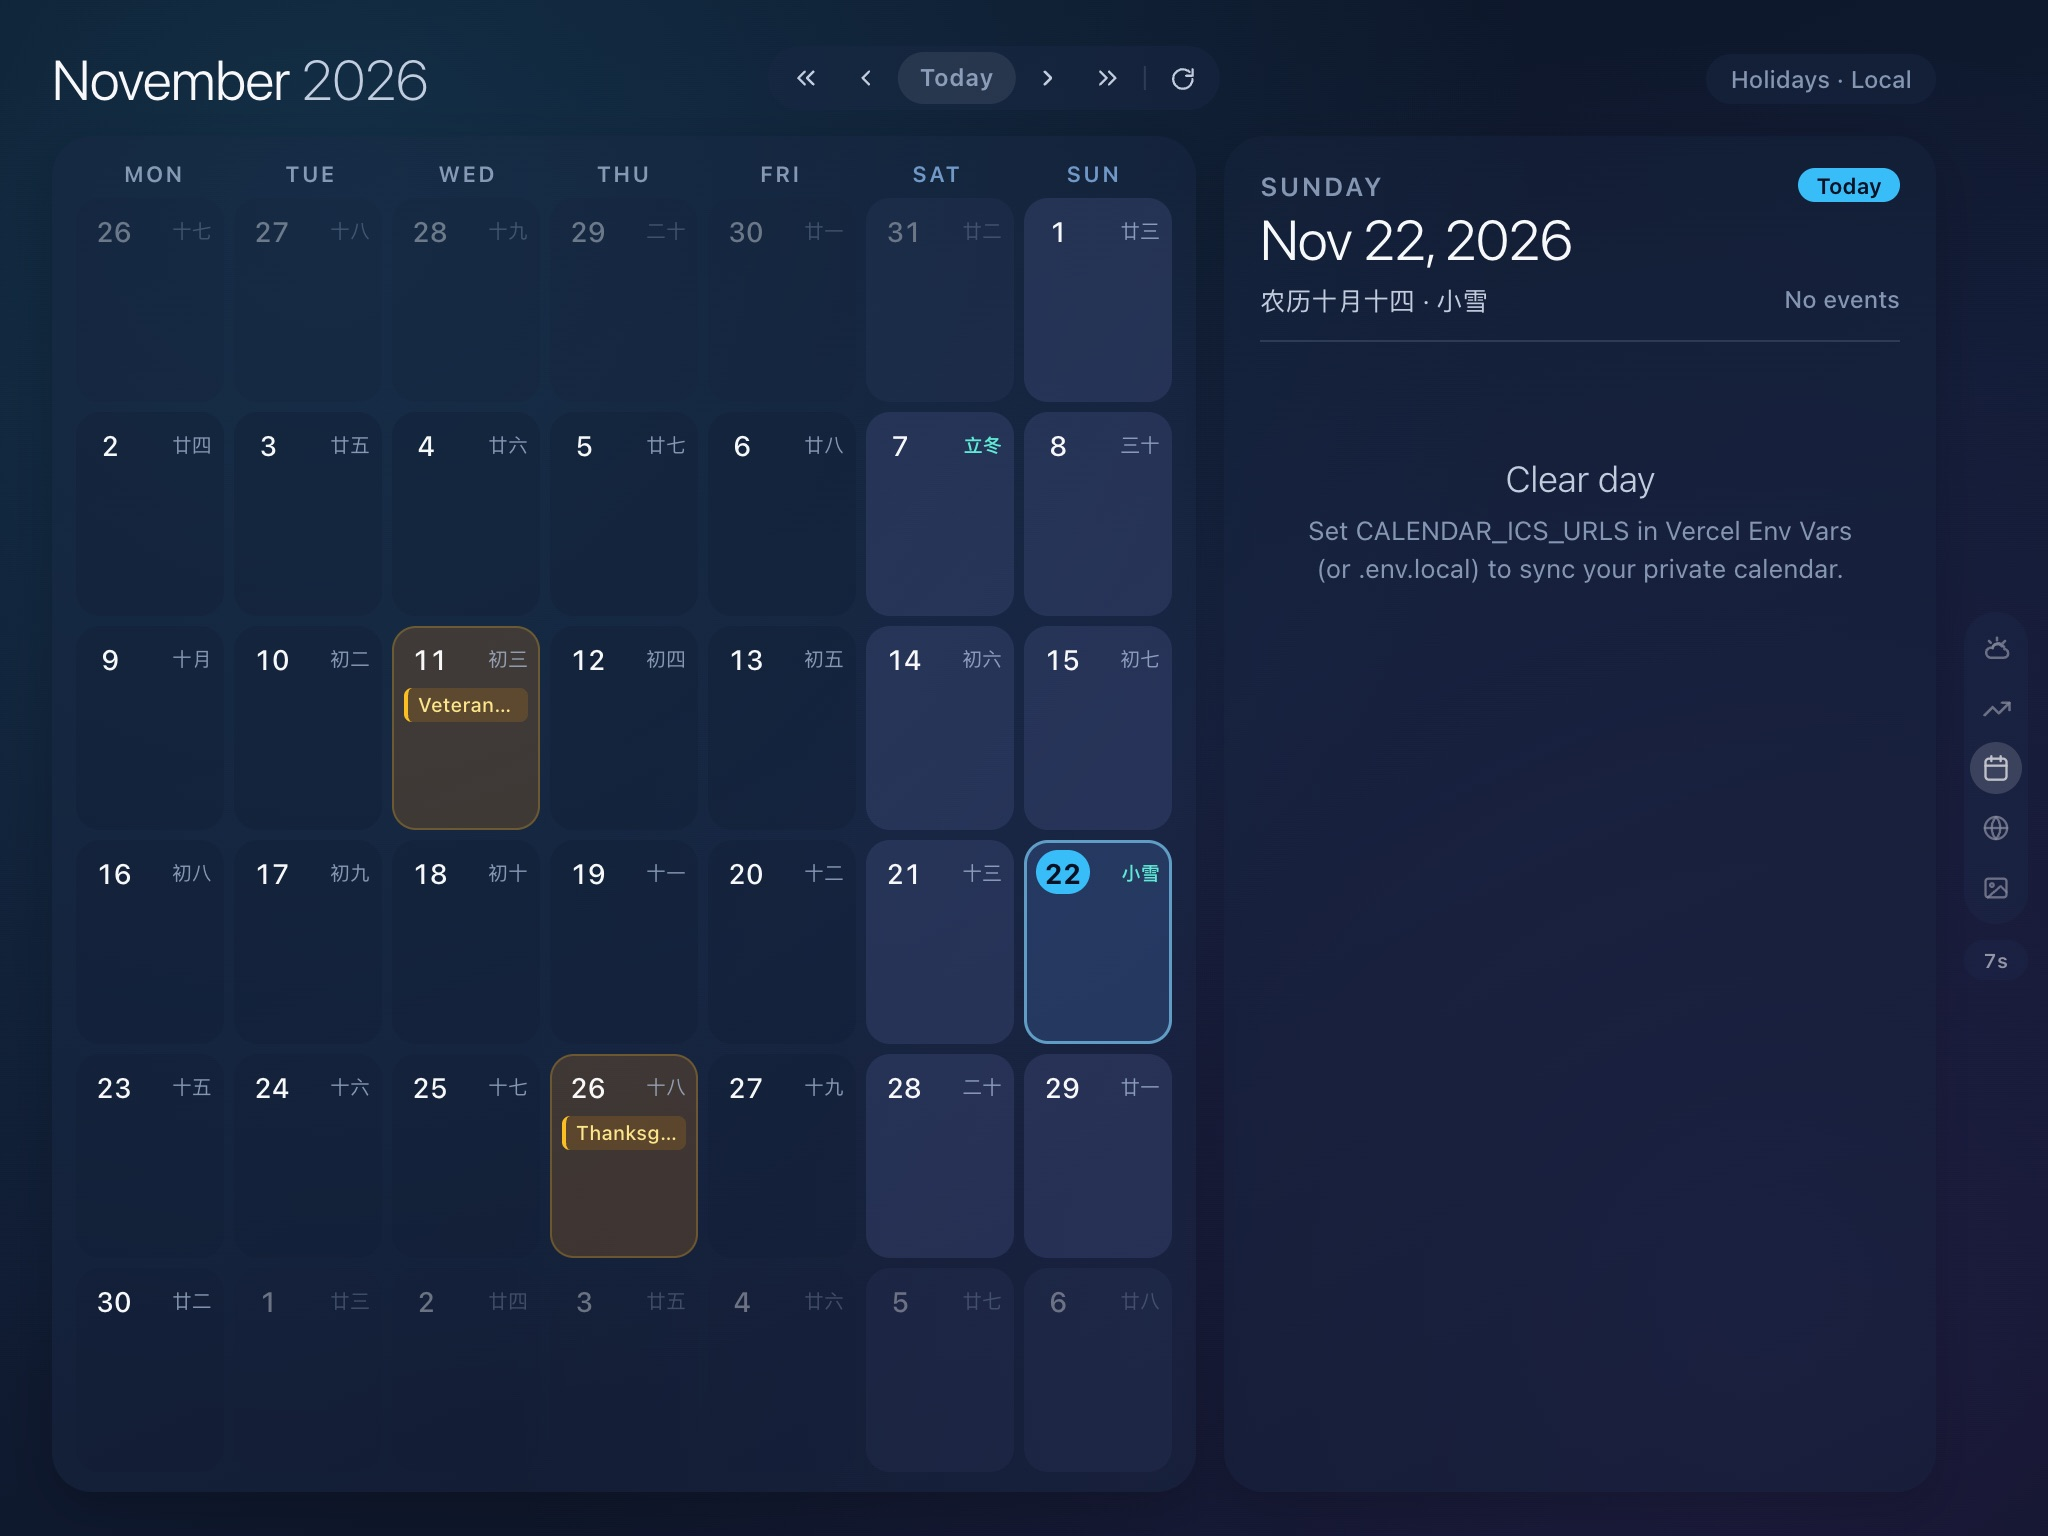
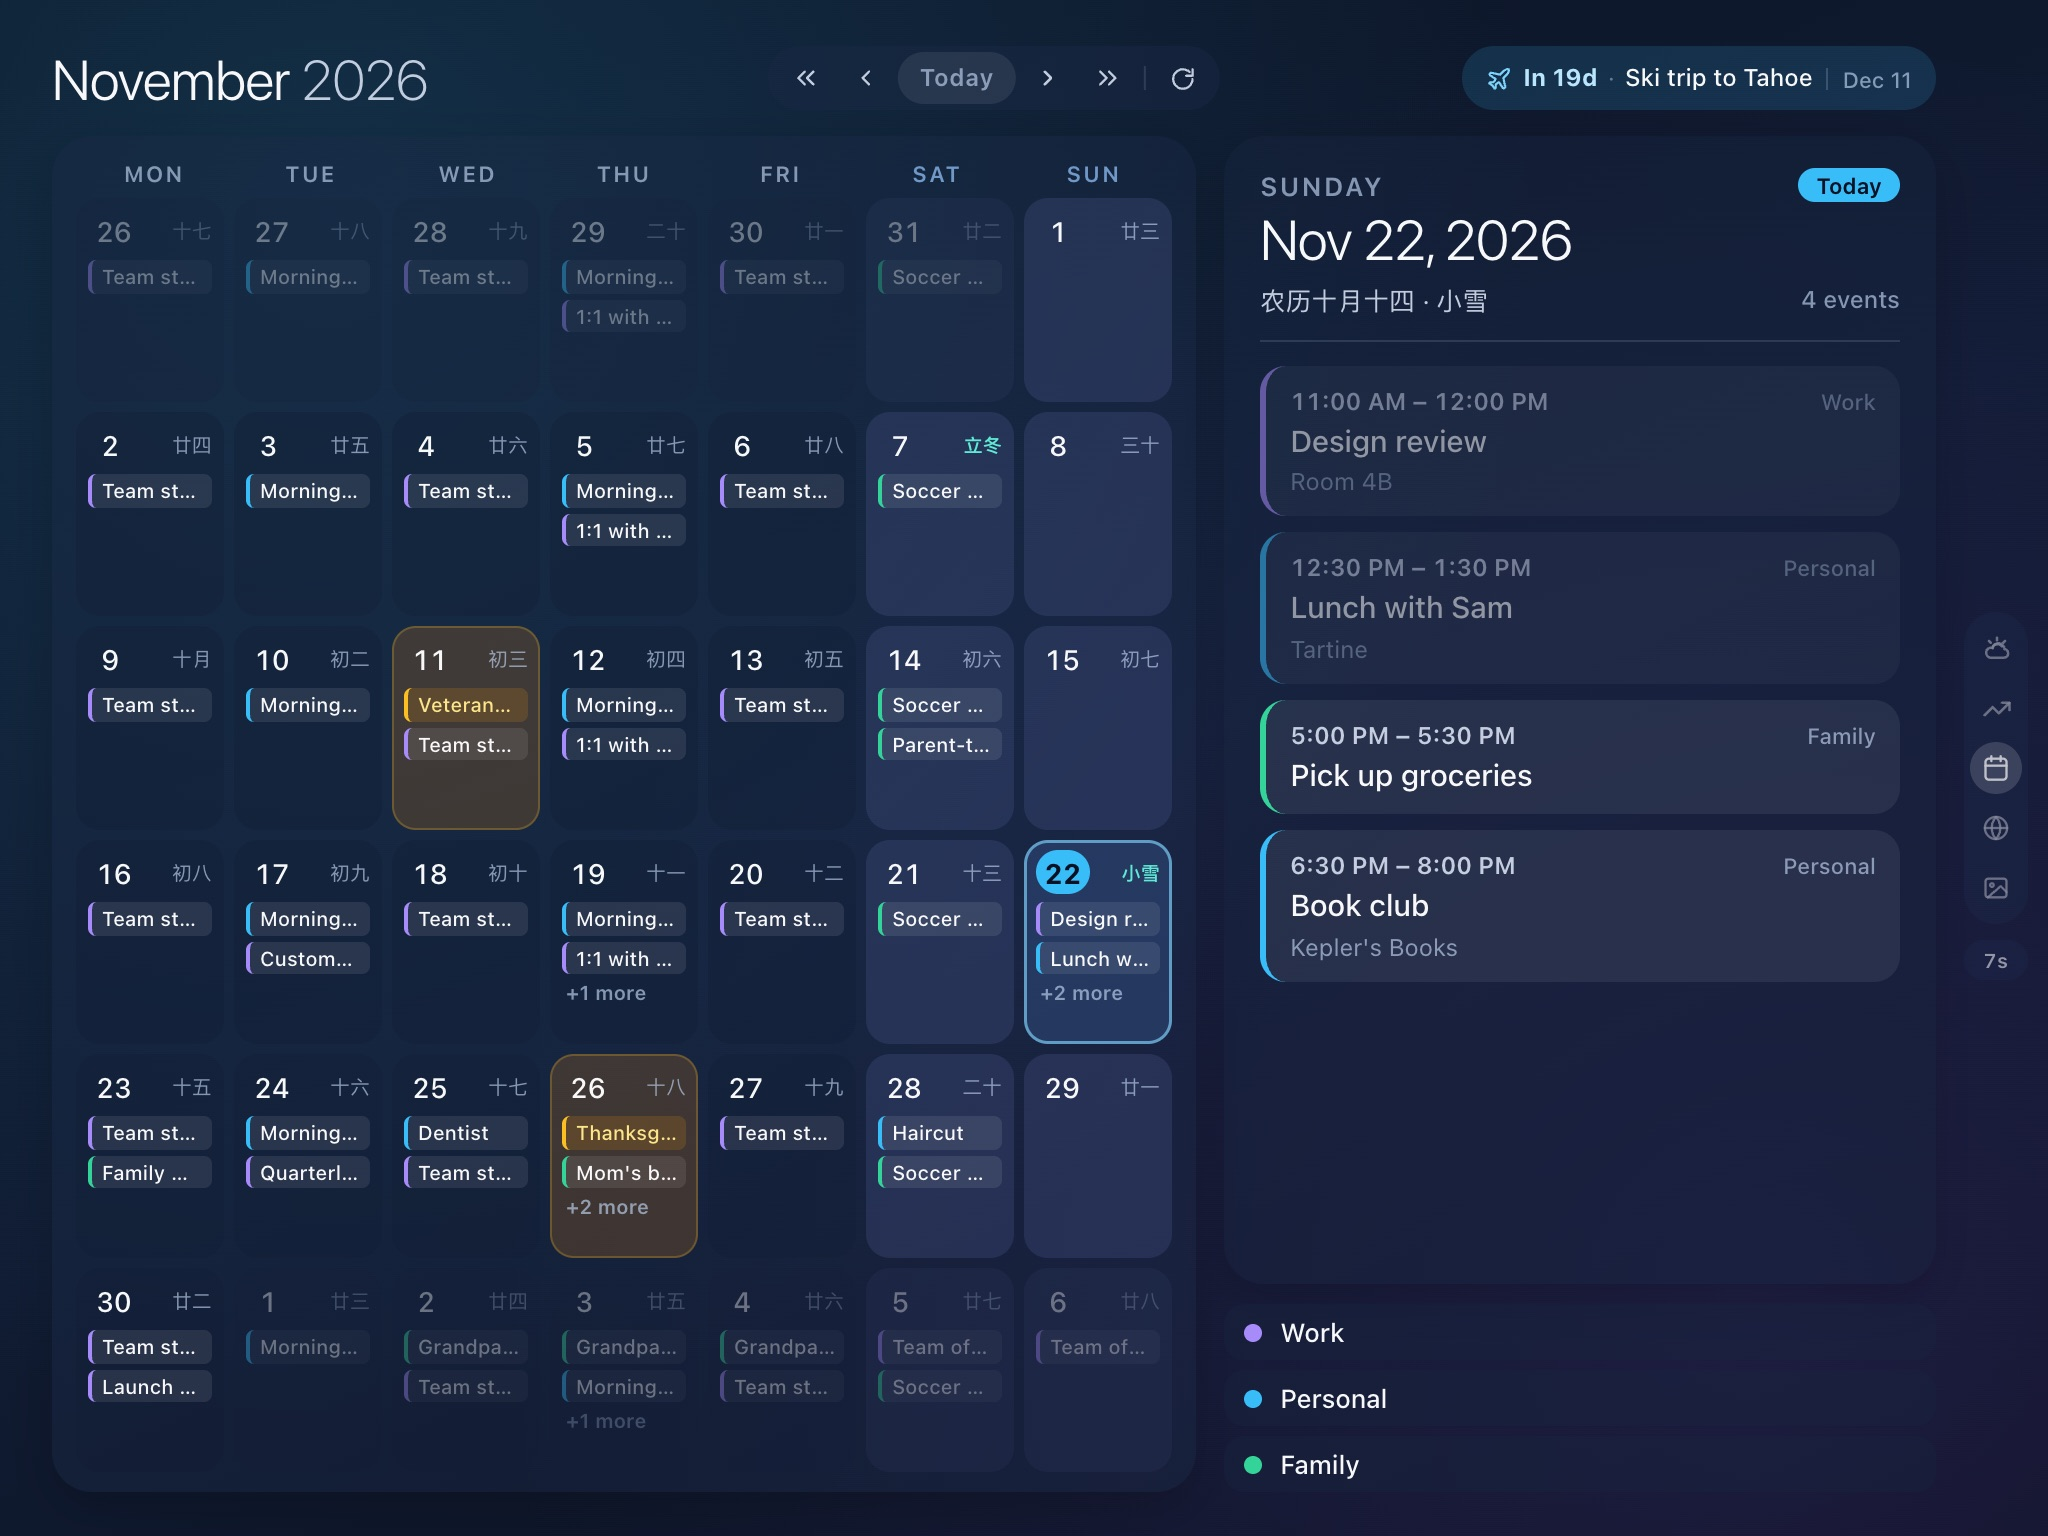
Add ?demo=calendar sample calendars and refresh Calendar screenshot
/api/calendar?demo=1 serves three generated calendars (Work, Personal,
Family) as inline iCalendar text relative to today, parsed by the real
ICS pipeline so recurrence, the next-event banner, and trip countdowns
all work. The Calendar slide requests it when opened with
?demo=calendar. Retake the README Calendar screenshot in demo mode.

diff --git a/src/components/CalendarDashboard.tsx b/src/components/CalendarDashboard.tsx
@@ -19,6 +19,15 @@ import type { USHolidayInfo } from '../utils/calendar';
 
 var HIDDEN_CALS_STORAGE_KEY = 'glance:hiddenCalendars:v1';
 
+// Demo mode (?demo=calendar): the API serves generated sample calendars
+function isCalendarDemoMode(): boolean {
+  try {
+    return /[?&]demo=calendar(&|$)/i.test(window.location.search || '');
+  } catch (_err) {
+    return false;
+  }
+}
+
 function readHiddenCalendars(): { [id: string]: boolean } {
   try {
     var raw = window.localStorage.getItem(HIDDEN_CALS_STORAGE_KEY);
@@ -141,7 +150,12 @@ export function CalendarDashboard(props: CalendarDashboardProps) {
       setIsLoading(true);
     }
 
-    var qs = '?year=' + String(year) + '&month=' + String(month);
+    var qs =
+      '?year=' +
+      String(year) +
+      '&month=' +
+      String(month) +
+      (isCalendarDemoMode() ? '&demo=1' : '');
     return fetch('/api/calendar' + qs, { cache: 'no-cache', credentials: 'same-origin' })
       .then(function (resp) {
         if (resp.status === 401) {

diff --git a/api/calendar_demo.go b/api/calendar_demo.go
@@ -1,0 +1,113 @@
+package handler
+
+import (
+	"fmt"
+	"strings"
+	"time"
+)
+
+// Demo calendars for /api/calendar?demo=1 (the dashboard opened with
+// ?demo=calendar). Events are generated as iCalendar text relative to "now"
+// and run through the real ICS parser, so recurrence, the next-event banner,
+// and trip countdowns behave exactly as they do with private feeds.
+
+type demoEvent struct {
+	title    string
+	location string
+	day      int // days from today
+	start    string
+	end      string // "HH:MM"; empty start/end = all-day
+	days     int    // all-day span in days (default 1)
+	rrule    string
+}
+
+type demoCalendar struct {
+	id     string
+	name   string
+	color  string
+	events []demoEvent
+}
+
+var demoCalendars = []demoCalendar{
+	{
+		id: "demo-work", name: "Work", color: "#a78bfa",
+		events: []demoEvent{
+			{title: "Team standup", day: -63, start: "09:30", end: "09:45", rrule: "FREQ=WEEKLY;BYDAY=MO,WE,FR"},
+			{title: "1:1 with Priya", day: -60, start: "14:00", end: "14:30", rrule: "FREQ=WEEKLY;BYDAY=TH"},
+			{title: "Design review", location: "Room 4B", day: 0, start: "11:00", end: "12:00"},
+			{title: "Customer demo", location: "Zoom", day: -5, start: "13:00", end: "14:00"},
+			{title: "Quarterly planning", location: "Atlas conference room", day: 2, start: "15:00", end: "16:30"},
+			{title: "Launch retro", day: 8, start: "10:00", end: "11:00"},
+			{title: "Team offsite", location: "Half Moon Bay", day: 13, days: 2},
+		},
+	},
+	{
+		id: "demo-personal", name: "Personal", color: "#38bdf8",
+		events: []demoEvent{
+			{title: "Morning run", day: -62, start: "07:00", end: "07:45", rrule: "FREQ=WEEKLY;BYDAY=TU,TH"},
+			{title: "Lunch with Sam", location: "Tartine", day: 0, start: "12:30", end: "13:30"},
+			{title: "Book club", location: "Kepler's Books", day: 0, start: "18:30", end: "20:00"},
+			{title: "Dinner with Alex & Jordan", day: -3, start: "19:00", end: "21:00"},
+			{title: "Dentist", day: 3, start: "08:00", end: "08:45"},
+			{title: "Haircut", day: 6, start: "10:00", end: "10:45"},
+			{title: "Ski trip to Tahoe", day: 19, days: 4},
+		},
+	},
+	{
+		id: "demo-family", name: "Family", color: "#34d399",
+		events: []demoEvent{
+			{title: "Soccer practice", location: "Ortega Park", day: -61, start: "10:00", end: "11:30", rrule: "FREQ=WEEKLY;BYDAY=SA"},
+			{title: "Mom's birthday", day: 4, days: 1},
+			{title: "Parent-teacher conference", day: -8, start: "16:00", end: "16:30"},
+			{title: "Family movie night", day: 1, start: "19:30", end: "21:30"},
+			{title: "Pick up groceries", day: 0, start: "17:00", end: "17:30"},
+			{title: "Grandparents visit", day: 10, days: 3},
+		},
+	},
+}
+
+// demoCalendarSources returns the demo calendars as inline-ICS sources.
+func demoCalendarSources(now time.Time) []calendarSource {
+	today := time.Date(now.Year(), now.Month(), now.Day(), 0, 0, 0, 0, now.Location())
+	sources := make([]calendarSource, 0, len(demoCalendars))
+	for _, c := range demoCalendars {
+		sources = append(sources, calendarSource{
+			ID:    c.id,
+			Name:  c.name,
+			Color: c.color,
+			ICS:   buildDemoICS(c, today),
+		})
+	}
+	return sources
+}
+
+func buildDemoICS(c demoCalendar, today time.Time) string {
+	var b strings.Builder
+	b.WriteString("BEGIN:VCALENDAR\r\nVERSION:2.0\r\nPRODID:-//Glance//Demo//EN\r\n")
+	for i, ev := range c.events {
+		day := today.AddDate(0, 0, ev.day)
+		fmt.Fprintf(&b, "BEGIN:VEVENT\r\nUID:%s-%d@glance.demo\r\nSUMMARY:%s\r\n", c.id, i, ev.title)
+		if ev.location != "" {
+			fmt.Fprintf(&b, "LOCATION:%s\r\n", ev.location)
+		}
+		if ev.start == "" {
+			span := ev.days
+			if span < 1 {
+				span = 1
+			}
+			fmt.Fprintf(&b, "DTSTART;VALUE=DATE:%s\r\nDTEND;VALUE=DATE:%s\r\n",
+				day.Format("20060102"), day.AddDate(0, 0, span).Format("20060102"))
+		} else {
+			// Floating local times are interpreted in the Home city's timezone
+			fmt.Fprintf(&b, "DTSTART:%sT%s00\r\nDTEND:%sT%s00\r\n",
+				day.Format("20060102"), strings.Replace(ev.start, ":", "", 1),
+				day.Format("20060102"), strings.Replace(ev.end, ":", "", 1))
+		}
+		if ev.rrule != "" {
+			fmt.Fprintf(&b, "RRULE:%s\r\n", ev.rrule)
+		}
+		b.WriteString("END:VEVENT\r\n")
+	}
+	b.WriteString("END:VCALENDAR\r\n")
+	return b.String()
+}

diff --git a/api/calendar_test.go b/api/calendar_test.go
@@ -220,3 +220,59 @@ func TestExtractUpcomingTrips(t *testing.T) {
 		t.Fatalf("unexpected third trip: %+v", trips[2])
 	}
 }
+
+func TestCalendarHandlerDemoMode(t *testing.T) {
+	origClient := calendarHTTPClient
+	calendarHTTPClient = &http.Client{
+		Transport: roundTripFunc(func(r *http.Request) (*http.Response, error) {
+			t.Fatalf("demo mode must not fetch any calendar URL, got %s", r.URL)
+			return nil, nil
+		}),
+	}
+	defer func() { calendarHTTPClient = origClient }()
+
+	t.Setenv("GLANCE_PASSCODE", "")
+	t.Setenv("VERCEL", "")
+	t.Setenv("CALENDAR_ICS_URLS", "https://example.com/private.ics")
+
+	req := httptest.NewRequest(http.MethodGet, "/api/calendar?demo=1", nil)
+	rec := httptest.NewRecorder()
+	CalendarHandler(rec, req)
+	if rec.Code != http.StatusOK {
+		t.Fatalf("expected 200, got %d: %s", rec.Code, rec.Body.String())
+	}
+
+	var resp CalendarResponse
+	if err := json.Unmarshal(rec.Body.Bytes(), &resp); err != nil {
+		t.Fatalf("invalid json: %v", err)
+	}
+	if !resp.Configured || len(resp.Calendars) != 3 || resp.Calendars[0].Name != "Work" {
+		t.Fatalf("expected the 3 demo calendars, got %+v", resp.Calendars)
+	}
+	if len(resp.Warnings) != 0 {
+		t.Fatalf("unexpected warnings: %v", resp.Warnings)
+	}
+
+	today := time.Now().In(loadTimezoneSafe(resp.Timezone)).Format("2006-01-02")
+	todayTitles := map[string]bool{}
+	for _, ev := range resp.Events {
+		if ev.Date == today {
+			todayTitles[ev.Title] = true
+		}
+	}
+	for _, want := range []string{"Design review", "Lunch with Sam", "Pick up groceries", "Book club"} {
+		if !todayTitles[want] {
+			t.Fatalf("expected %q today (%s), got %v", want, today, todayTitles)
+		}
+	}
+
+	foundTrip := false
+	for _, trip := range resp.UpcomingTrips {
+		if trip.Title == "Ski trip to Tahoe" && trip.Days == 4 {
+			foundTrip = true
+		}
+	}
+	if !foundTrip {
+		t.Fatalf("expected the demo ski trip in upcomingTrips, got %+v", resp.UpcomingTrips)
+	}
+}

diff --git a/api/calendar.go b/api/calendar.go
@@ -37,6 +37,7 @@ type calendarSource struct {
 	Color    string `json:"color"`
 	URL      string `json:"url"`
 	AutoName bool   `json:"-"`
+	ICS      string `json:"-"` // inline iCalendar text (demo mode); skips fetching URL
 }
 
 type CalendarMeta struct {
@@ -134,7 +135,13 @@ func CalendarHandler(w http.ResponseWriter, r *http.Request) {
 	}
 	forceRefresh := q.Get("refresh") == "1"
 
-	sources := parseCalendarSourcesFromEnv()
+	// ?demo=1 serves generated demo calendars instead of the private feeds
+	var sources []calendarSource
+	if q.Get("demo") == "1" {
+		sources = demoCalendarSources(nowLocal)
+	} else {
+		sources = parseCalendarSourcesFromEnv()
+	}
 	calendars := make([]CalendarMeta, 0, len(sources))
 	for _, s := range sources {
 		calendars = append(calendars, CalendarMeta{
@@ -163,7 +170,16 @@ func CalendarHandler(w http.ResponseWriter, r *http.Request) {
 		wg.Add(1)
 		go func(s calendarSource) {
 			defer wg.Done()
-			parsed, extractedName, fetchErr := fetchParsedICSCached(s.URL, loc, forceRefresh)
+			var (
+				parsed        []rawICSEvent
+				extractedName string
+				fetchErr      error
+			)
+			if s.ICS != "" {
+				parsed = parseICSEvents(s.ICS, loc)
+			} else {
+				parsed, extractedName, fetchErr = fetchParsedICSCached(s.URL, loc, forceRefresh)
+			}
 			if fetchErr != nil {
 				mu.Lock()
 				warnings = append(warnings, fmt.Sprintf("%s: %v", s.Name, fetchErr))

diff --git a/README.md b/README.md
@@ -9,8 +9,8 @@ Captured at the iPad mini 2's 1024×768 landscape resolution (Retina 2×).
 | Weather | Stocks |
 |---|---|
 | ![Weather dashboard: live clock, current conditions, 24-hour ribbon, 5-day forecast, air quality, and multi-city cards](docs/screenshots/weather.jpg) | ![Stocks dashboard: selected symbol chart with timeframes and a 20-card watchlist](docs/screenshots/stocks.jpg) |
-| **Calendar** | **World** |
-| ![Calendar dashboard: month grid with Chinese lunar dates and US holidays beside the selected-day agenda](docs/screenshots/calendar.jpg) | ![World dashboard: day/night map with city arcs, ISS orbit, earthquakes, and FX currency cards](docs/screenshots/world.jpg) |
+| **Calendar** (demo mode) | **World** |
+| ![Calendar dashboard: month grid of color-coded Work, Personal, and Family events with Chinese lunar dates and US holidays, today's agenda, and a trip countdown](docs/screenshots/calendar.jpg) | ![World dashboard: day/night map with city arcs, ISS orbit, earthquakes, and FX currency cards](docs/screenshots/world.jpg) |
 | **Photos** (demo mode) | |
 | ![Photos frame: auto-collage of one portrait and two landscape stock photos](docs/screenshots/photos.jpg) | |
 
@@ -104,6 +104,8 @@ npm run build && npm run preview
 ### Preview & Demo Modes
 Append `?demo=<mode>` to preview any condition immediately:
 `?demo=night`, `?demo=day`, `?demo=sunset`, `?demo=rain`, `?demo=snow`, `?demo=storm`, `?demo=fog`, `?demo=cloudy`, `?demo=wind`.
+
+`?demo=calendar` shows three sample calendars (Work, Personal, Family) on the Calendar slide instead of your private feeds: recurring events, a busy "today", and an upcoming trip countdown, all generated relative to the current date by [`api/calendar_demo.go`](./api/calendar_demo.go) and parsed by the real `.ics` pipeline.
 
 `?demo=photos` fills the Photos slide with 15 bundled stock photos (from [`public/demo/photos/`](./public/demo/photos/), Unsplash License; see [CREDITS](./public/demo/photos/CREDITS.md)) instead of your Google Photos albums — handy for screenshots or trying the collage layouts without configuring `PHOTOS_ALBUM_URLS`.
 
